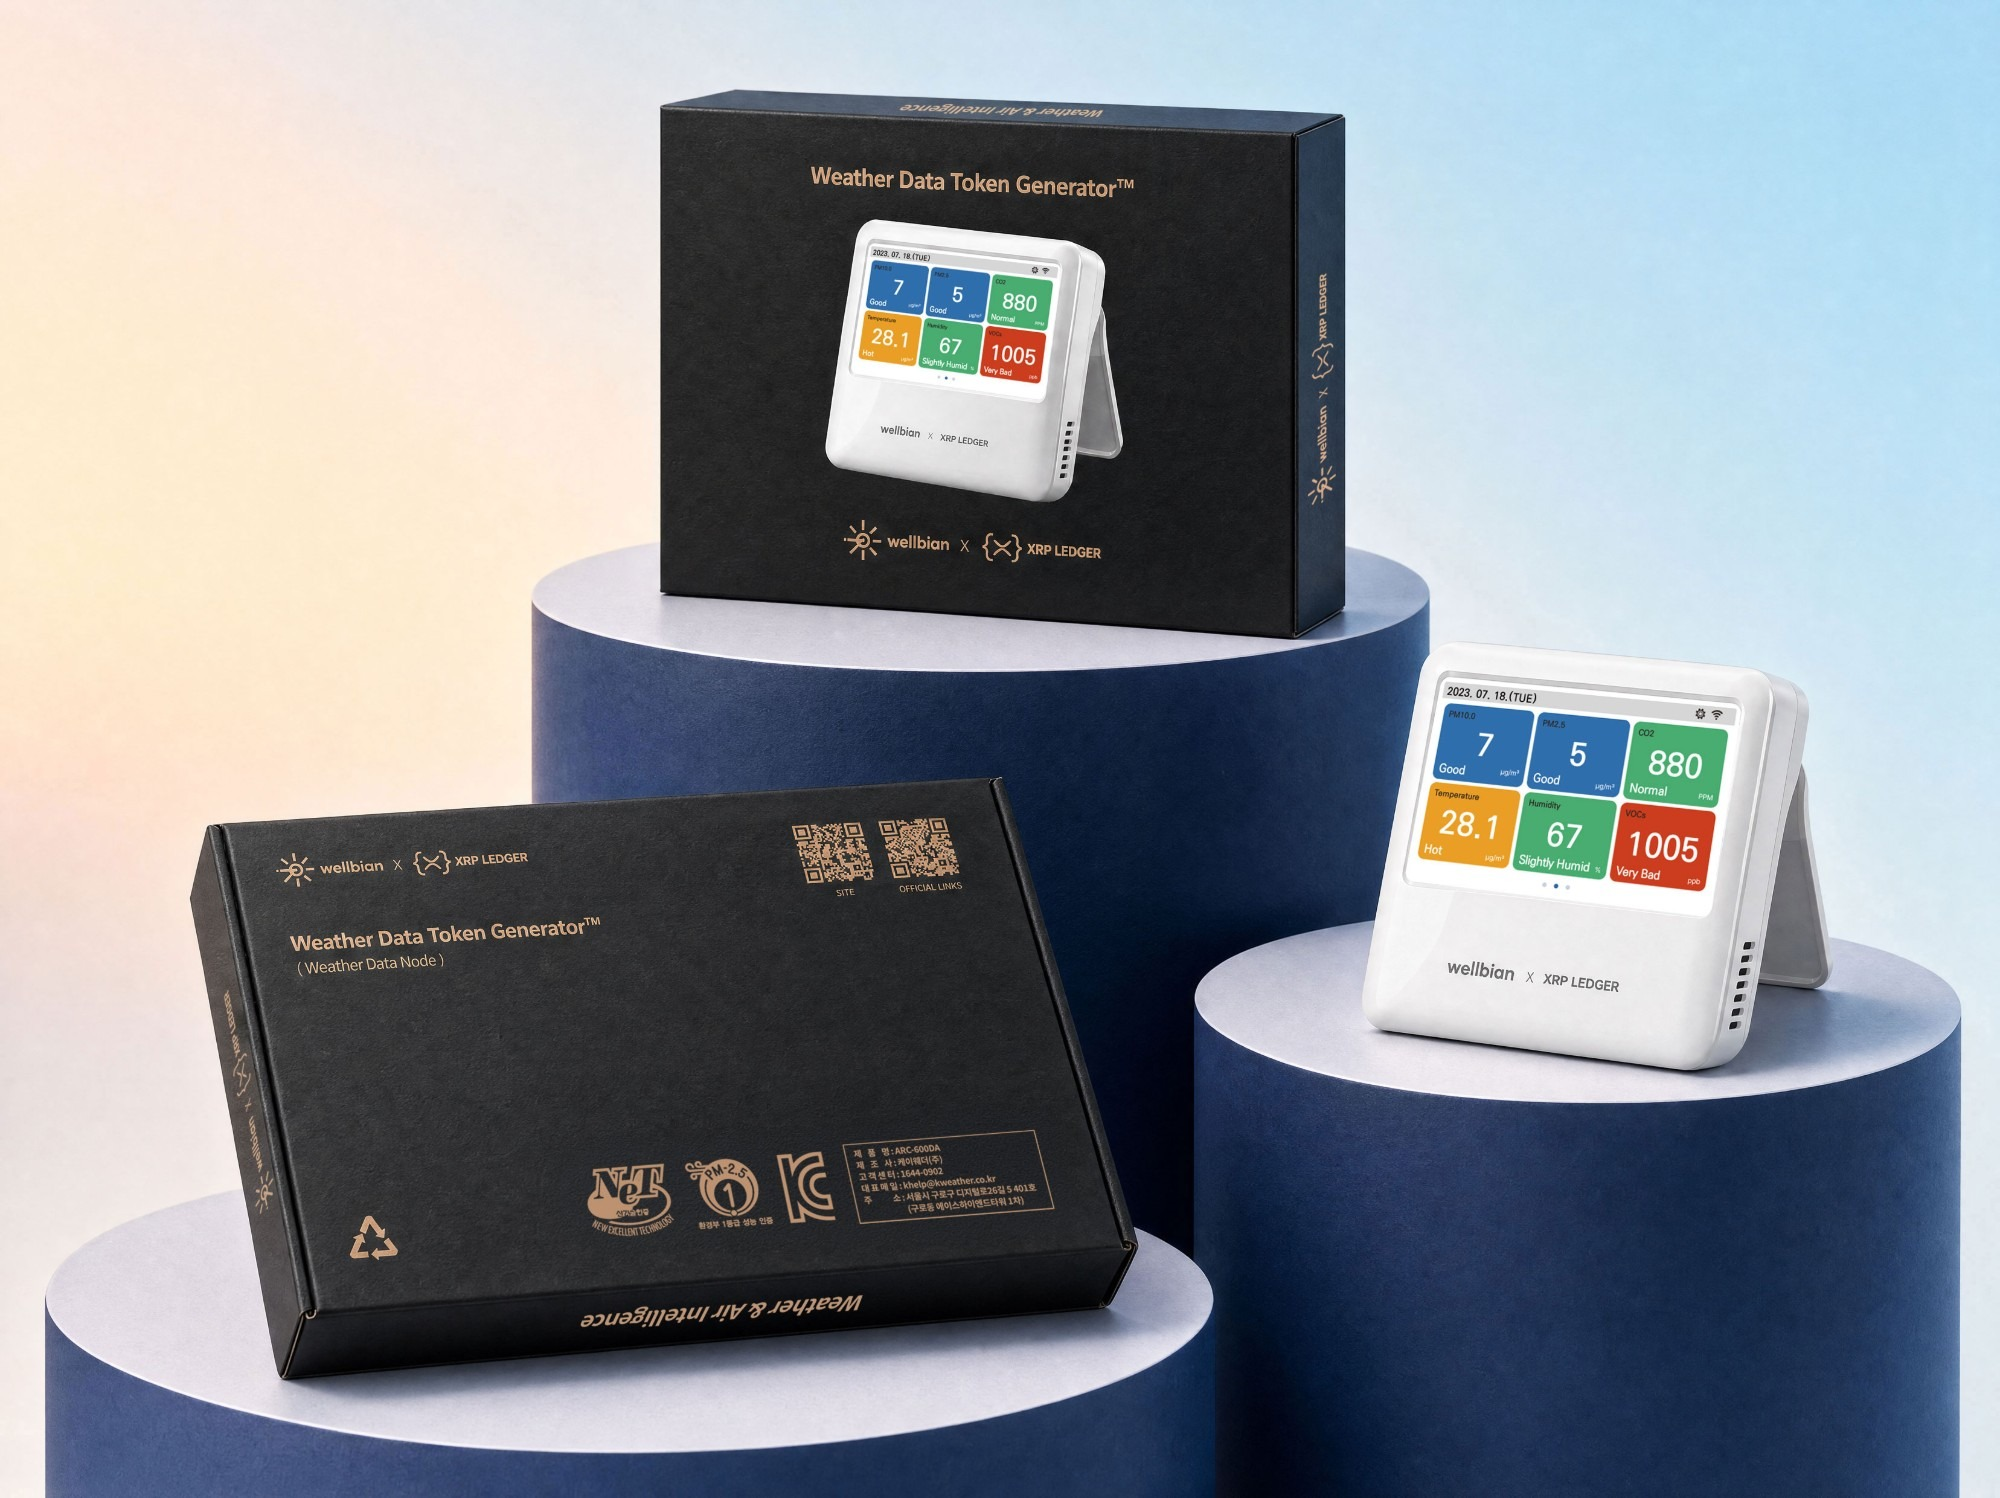
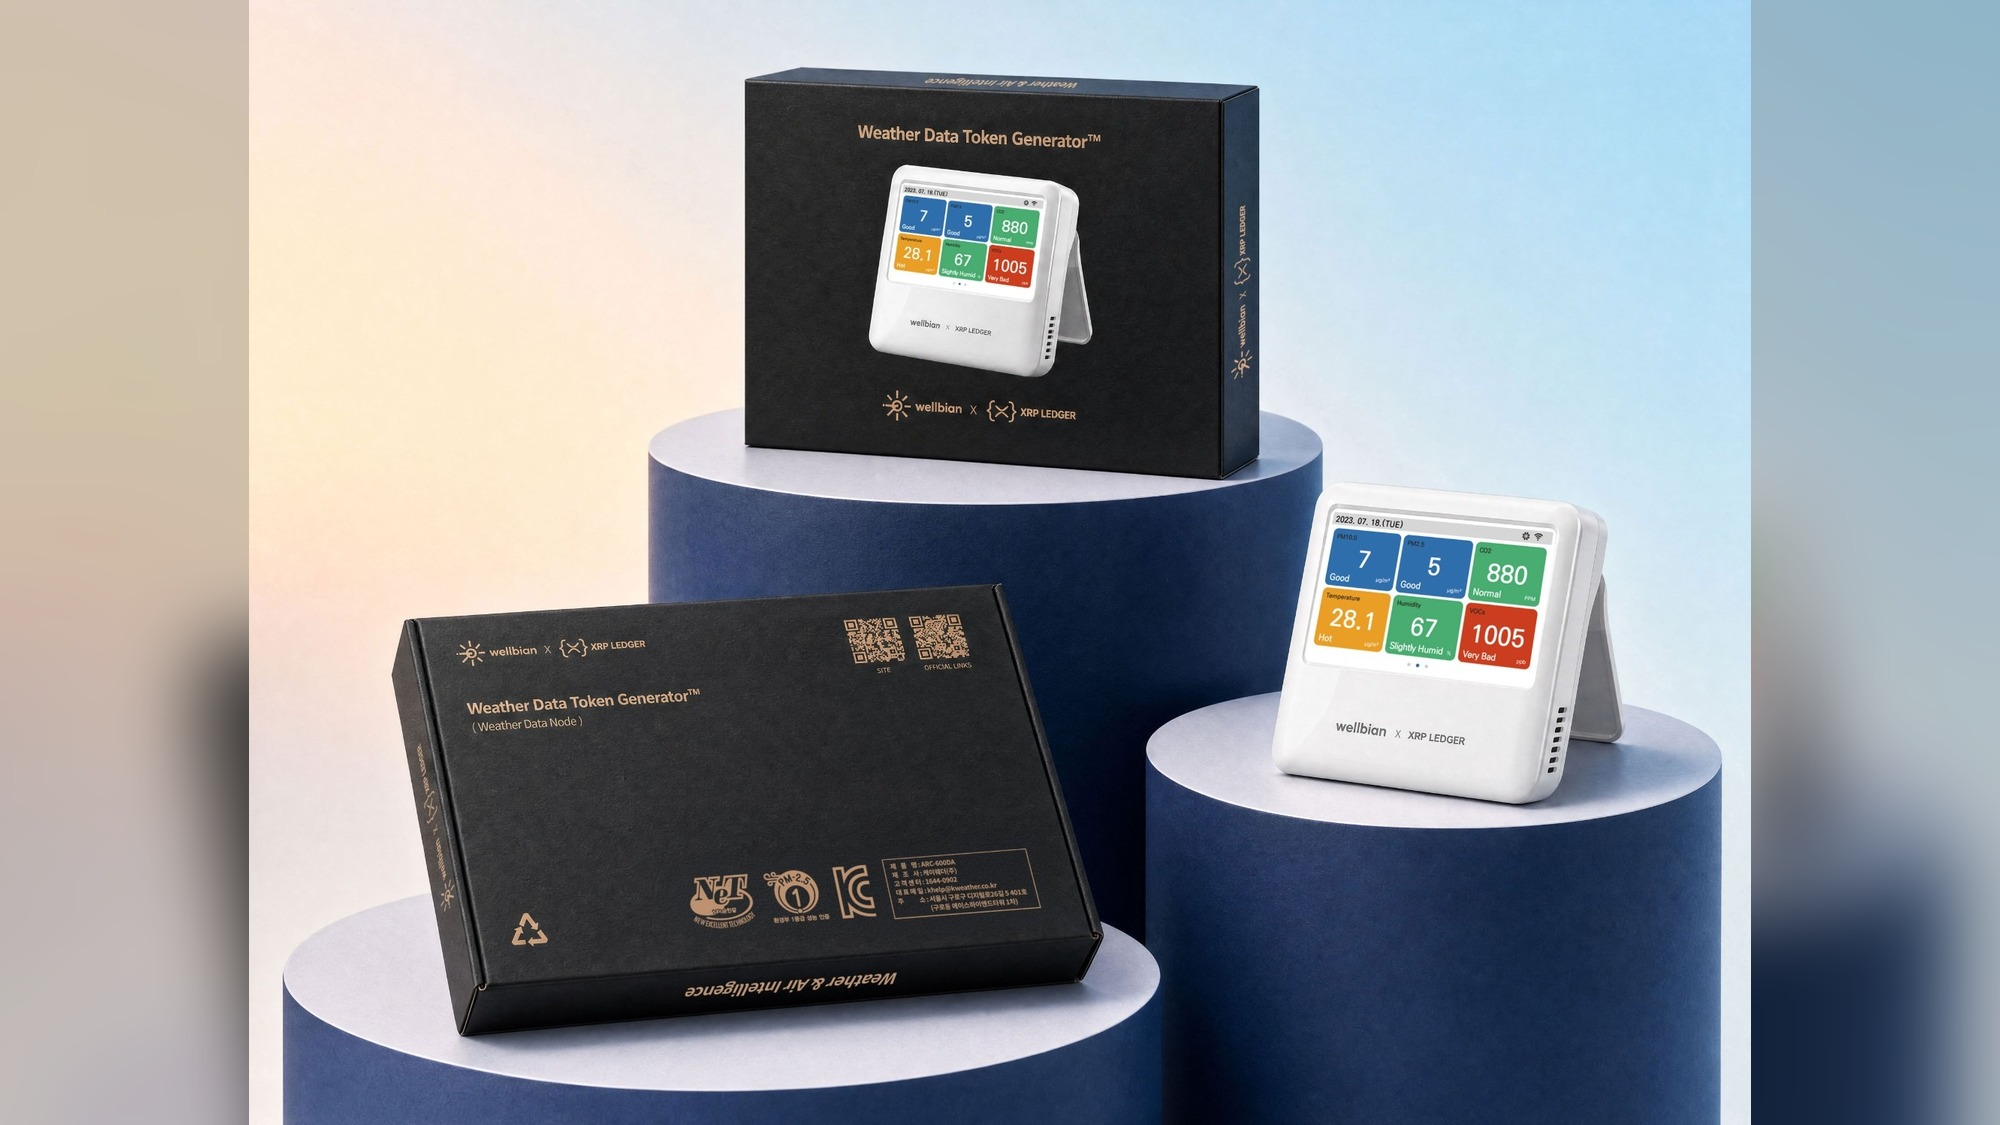
store: 갤러리 16:9 리패드 + 스펙 글래스 표 + 사전 알림/D-day 시뮬레이션
- product-1~3(4:3) → 16:9 블러 확장 리패드 (원본 무크롭 contain + 블러 배경)
- 스펙 표: 흰 카드 → 글래스(blur 14px·rgba 네이비) + 흰 폰트
- ?state=teaser: [D-07 사전 알림받기](텔레그램 연결) + 누적 3,847명 카운트업 +
  "1차 판매 9월 15일 오픈" 라인, 게이지·스티키 숨김
- ?state=dday: 버튼에 00:00:00 실시간 카운트다운 (감소 실측)
- GNB 우측에 시뮬레이션 전환 칩 추가 (판매↔사전↔당일), MOCK_PRENOTIFY 목값
- QA 14/14 (KO/EN·모바일)

Claude-Session: https://claude.ai/code/session_014drgzQYBXTLjd1zzmsjRaS

diff --git a/depin/site/wellbian-store/components/Landing.tsx b/depin/site/wellbian-store/components/Landing.tsx
@@ -8,7 +8,7 @@ import { useEffect, useMemo, useRef, useState } from "react";
 import { useSearchParams } from "next/navigation";
 import {
   SPECS, SPECS_EN, FAQS, FAQS_EN, FAQS_EXTRA, FAQS_EXTRA_EN, LINK_STEPS, LINK_STEPS_EN,
-  RL_STEPS, RL_STEPS_EN, LINKS, MOCK_INVENTORY, PRICE, calc, fmt,
+  RL_STEPS, RL_STEPS_EN, LINKS, MOCK_INVENTORY, MOCK_PRENOTIFY, PRICE, calc, fmt,
   NOTICE_REWARD, NOTICE_REWARD_EN, type SalePhase,
 } from "@/lib/data";
 import { useI18n } from "@/lib/i18n";
@@ -23,6 +23,9 @@ export default function Landing() {
   const demoMismatch = sp.get("demo") === "mismatch"; // 결제 mismatch 분기 재현용 (내부 데모)
   const phase: SalePhase =
     stateParam === "eb_closed" ? "general" : stateParam === "sold_out" ? "sold_out" : "early_bird";
+  /* 사전 알림 시뮬레이션 (8/27 서우): ?state=teaser = D-07 사전 알림 / ?state=dday = 당일 카운트다운 */
+  const preMode: "pre" | "dday" | null =
+    stateParam === "teaser" ? "pre" : stateParam === "dday" ? "dday" : null;
 
   const inv = MOCK_INVENTORY[phase]; // GET /api/inventory 대응 지점
   const { remain, pct, ebPct, genPct } = calc(inv);
@@ -79,6 +82,27 @@ export default function Landing() {
     return () => clearInterval(t);
   }, []);
 
+  /* 사전 알림 누적 카운트업 (teaser) + 오픈 카운트다운 (dday) — 목값 */
+  const [notifyCount, setNotifyCount] = useState(0);
+  useEffect(() => {
+    if (preMode !== "pre") return;
+    const t0 = performance.now(); const dur = 1200; let raf = 0;
+    const tick = (t: number) => {
+      const k = Math.min(1, (t - t0) / dur);
+      setNotifyCount(Math.round(MOCK_PRENOTIFY * (1 - Math.pow(1 - k, 3))));
+      if (k < 1) raf = requestAnimationFrame(tick);
+    };
+    raf = requestAnimationFrame(tick);
+    return () => cancelAnimationFrame(raf);
+  }, [preMode]);
+  const [countdown, setCountdown] = useState(7 * 3600 + 23 * 60 + 45); // 데모: 오픈까지 07:23:45
+  useEffect(() => {
+    if (preMode !== "dday") return;
+    const t = setInterval(() => setCountdown((s) => Math.max(0, s - 1)), 1000);
+    return () => clearInterval(t);
+  }, [preMode]);
+  const cd = `${String(Math.floor(countdown / 3600)).padStart(2, "0")}:${String(Math.floor((countdown % 3600) / 60)).padStart(2, "0")}:${String(countdown % 60).padStart(2, "0")}`;
+
   /* 스티키 바: 히어로 CTA가 뷰포트를 벗어나면 표시 (PRD §8) */
   useEffect(() => {
     const el = heroCtaRef.current;
@@ -103,9 +127,16 @@ export default function Landing() {
     <div style={{ background: "#fff" }}>
       {/* GNB 우측 상태형 슬롯: 판매 중 = 완판 화면 미리보기 칩 / 완판 = 소식 CTA */}
       <Gnb
-        dday={soldOut ? undefined : "D-12"}
+        dday={preMode ? "D-07" : soldOut ? undefined : "D-12"}
         right={<>
-          {soldOut ? (
+          {preMode ? (
+            <>
+              <Link href="/" className="desk-only" style={previewChip}>{en ? "Sale view" : "판매 화면 보기"}</Link>
+              {preMode === "pre"
+                ? <Link href="/?state=dday" style={previewChip}>{en ? "D-day view" : "오픈 당일 보기"}</Link>
+                : <Link href="/?state=teaser" style={previewChip}>{en ? "Pre-launch view" : "사전 알림 보기"}</Link>}
+            </>
+          ) : soldOut ? (
             <>
               <Link href="/" className="desk-only" style={previewChip}>{en ? "Sale view" : "판매 화면 보기"}</Link>
               <a
@@ -122,8 +153,9 @@ export default function Landing() {
             </>
           ) : (
             <>
+              <Link href="/?state=teaser" style={previewChip}>{en ? "Pre-launch view" : "사전 알림 보기"}</Link>
               <Link href="/?state=eb_closed" className="desk-only" style={previewChip}>{en ? "EB-closed view" : "얼리버드 마감 보기"}</Link>
-              <Link href="/?state=sold_out" style={previewChip}>{en ? "Sold-out view" : "완판 화면 보기"}</Link>
+              <Link href="/?state=sold_out" className="desk-only" style={previewChip}>{en ? "Sold-out view" : "완판 화면 보기"}</Link>
             </>
           )}
         </>}
@@ -224,6 +256,13 @@ export default function Landing() {
                   ? "Just measure your indoor air — your verified data turns into value that comes back to you."
                   : "실내 공기를 측정하는 것만으로, 검증된 내 데이터가 가치가 되어 돌아옵니다."}
               </p>
+              {preMode ? (
+                /* 사전 알림 모드: 게이지 대신 오픈 정보 한 줄 */
+                <div style={{ display: "flex", alignItems: "baseline", gap: 12, maxWidth: 440, marginTop: 6, fontSize: 18, fontWeight: 700, flexWrap: "wrap" }}>
+                  <span>{en ? "First sale opens Sept 15" : "1차 판매 9월 15일 오픈"}</span>
+                  <span style={{ fontSize: 16, fontWeight: 400, color: "rgba(255,255,255,.65)" }}>{en ? "Limited to 5,000 units" : "총 5,000대 한정"}</span>
+                </div>
+              ) : (
               <div style={{ display: "flex", flexDirection: "column", gap: 8, maxWidth: 440, marginTop: 6 }}>
                 {/* 잔여·판매율을 좌측 선두로, 총량은 우측 보조로 (8/27 서우) */}
                 <div style={{ display: "flex", justifyContent: "space-between", alignItems: "baseline" }}>
@@ -234,16 +273,37 @@ export default function Landing() {
                 </div>
                 <div className="track on-dark" style={{ height: 8 }}><i style={{ width: `${Math.max(2, pct)}%` }} /></div>
               </div>
+              )}
               {/* 모바일: 구매 버튼 전폭 → 아랫줄에 X·텔레그램 나란히 (8/27 서우) */}
               <div ref={heroCtaRef} className="hero-cta-row" style={{ display: "flex", alignItems: "center", gap: 12, marginTop: 10, flexWrap: "wrap" }}>
-                <button onClick={buy} className="btn-main btn-shine hero-buy-btn" style={{ fontSize: 21, padding: "16px 28px", boxShadow: "0 8px 24px rgba(0,0,0,.3)" }}>
-                  {en ? "Buy now · RLUSD" : "지금 구매하기 · RLUSD"}
-                </button>
+                {preMode === "pre" ? (
+                  /* D-07 사전 알림받기 — 알림 신청 = 공식 텔레그램 (8/27 서우) */
+                  <a href={LINKS.telegram} target="_blank" rel="noopener" className="btn-main btn-shine hero-buy-btn" style={{ fontSize: 21, padding: "16px 28px", boxShadow: "0 8px 24px rgba(0,0,0,.3)", color: "#fff", textDecoration: "none" }}>
+                    🔔 {en ? "D-07 · Get launch alerts" : "D-07 사전 알림받기"}
+                  </a>
+                ) : preMode === "dday" ? (
+                  /* 오픈 당일: 실시간 카운트다운 버튼 */
+                  <a href={LINKS.telegram} target="_blank" rel="noopener" className="btn-main btn-shine hero-buy-btn" style={{ fontSize: 21, padding: "16px 28px", boxShadow: "0 8px 24px rgba(0,0,0,.3)", color: "#fff", textDecoration: "none" }}>
+                    <span className="mono" style={{ fontWeight: 800 }}>{cd}</span>&nbsp;{en ? "until open" : "후 오픈"}
+                  </a>
+                ) : (
+                  <button onClick={buy} className="btn-main btn-shine hero-buy-btn" style={{ fontSize: 21, padding: "16px 28px", boxShadow: "0 8px 24px rgba(0,0,0,.3)" }}>
+                    {en ? "Buy now · RLUSD" : "지금 구매하기 · RLUSD"}
+                  </button>
+                )}
                 <div className="hero-social" style={{ display: "flex", alignItems: "center", gap: 12 }}>
                   <a href={LINKS.x} target="_blank" rel="noopener" aria-label="X" style={heroIcon}><XIcon size={18} /></a>
                   <a href={LINKS.telegram} target="_blank" rel="noopener" aria-label={en ? "Telegram" : "텔레그램"} style={heroIcon}><TgIcon size={18} /></a>
                 </div>
               </div>
+              {preMode && (
+                /* 사전 알림 누적 (목값 카운트업) */
+                <div style={{ fontSize: 17, color: "rgba(255,255,255,.75)" }}>
+                  {en
+                    ? <>So far <b className="mono" style={{ color: "#fff", fontSize: 19 }}>{fmt(preMode === "pre" ? notifyCount : MOCK_PRENOTIFY)}</b> people signed up for launch alerts</>
+                    : <>지금까지 <b className="mono" style={{ color: "#fff", fontSize: 19 }}>{fmt(preMode === "pre" ? notifyCount : MOCK_PRENOTIFY)}</b>명이 사전 알림을 신청했습니다</>}
+                </div>
+              )}
             </div>
           </div>
         )}
@@ -363,16 +423,17 @@ export default function Landing() {
               </span>
             </button>
             {specOpen && (
-              <div className="step-in" style={{ width: "100%", maxWidth: 760, background: "#fff", borderRadius: 14, padding: "6px 20px 14px", display: "flex", flexDirection: "column", gap: 12, color: "var(--ink-1)" }}>
-                <div style={{ display: "flex", flexDirection: "column", borderTop: "2px solid var(--w-deep)" }}>
+              /* 글래스 테이블 (8/27 서우: 흰 카드 → 블러 글래스 + 흰 폰트) */
+              <div className="step-in" style={{ width: "100%", maxWidth: 760, background: "rgba(27,27,72,.38)", backdropFilter: "blur(14px)", WebkitBackdropFilter: "blur(14px)", border: "1px solid rgba(255,255,255,.28)", borderRadius: 16, padding: "8px 22px 16px", display: "flex", flexDirection: "column", gap: 12, color: "#fff", boxShadow: "0 12px 40px rgba(0,0,0,.25)" }}>
+                <div style={{ display: "flex", flexDirection: "column", borderTop: "2px solid rgba(255,255,255,.85)" }}>
                   {specs.map((s) => (
-                    <div key={s.k} style={{ display: "grid", gridTemplateColumns: "150px 1fr", gap: 14, padding: "9px 4px", borderBottom: "1px solid var(--line)", fontSize: 17.5, lineHeight: 1.45 }}>
-                      <span style={{ fontWeight: 700, color: "var(--w-deep)" }}>{s.k}</span>
-                      <span style={{ color: "var(--ink-2)" }}>{s.v}</span>
+                    <div key={s.k} style={{ display: "grid", gridTemplateColumns: "150px 1fr", gap: 14, padding: "9px 4px", borderBottom: "1px solid rgba(255,255,255,.18)", fontSize: 17.5, lineHeight: 1.45 }}>
+                      <span style={{ fontWeight: 800, color: "#fff" }}>{s.k}</span>
+                      <span style={{ color: "rgba(255,255,255,.88)" }}>{s.v}</span>
                     </div>
                   ))}
                 </div>
-                <div style={{ fontSize: 15.5, color: "var(--hint)", textAlign: "center" }}>{en ? "Based on the manufacturer's official specification sheet." : "제조사 공식 사양표 기준입니다."}</div>
+                <div style={{ fontSize: 15.5, color: "rgba(255,255,255,.62)", textAlign: "center" }}>{en ? "Based on the manufacturer's official specification sheet." : "제조사 공식 사양표 기준입니다."}</div>
               </div>
             )}
             <div style={{ display: "flex", justifyContent: "center", gap: 8 }}>
@@ -585,8 +646,8 @@ export default function Landing() {
       {/* ── S9 커뮤니티 + 푸터 ── */}
       <CommunityFooter />
 
-      {/* ── S0 스티키 구매 바 ── */}
-      {!soldOut && (
+      {/* ── S0 스티키 구매 바 (사전 알림 모드에선 숨김) ── */}
+      {!soldOut && !preMode && (
         <div aria-hidden={!sticky} style={{
           position: "fixed", left: 0, right: 0, bottom: 0, zIndex: 60,
           transform: sticky ? "none" : "translateY(110%)", transition: "transform .3s ease",

diff --git a/depin/site/wellbian-store/lib/data.ts b/depin/site/wellbian-store/lib/data.ts
@@ -184,6 +184,9 @@ export const MOCK_DEVICE: Device = {
   wifi: true,
 };
 
+/* 사전 알림 누적 목값 (8/27 — teaser/dday 시뮬레이션용) */
+export const MOCK_PRENOTIFY = 3847;
+
 export const LINKS = {
   x: "https://x.com/wellbianlabs",
   telegram: "https://t.me/wellbianlabs",
